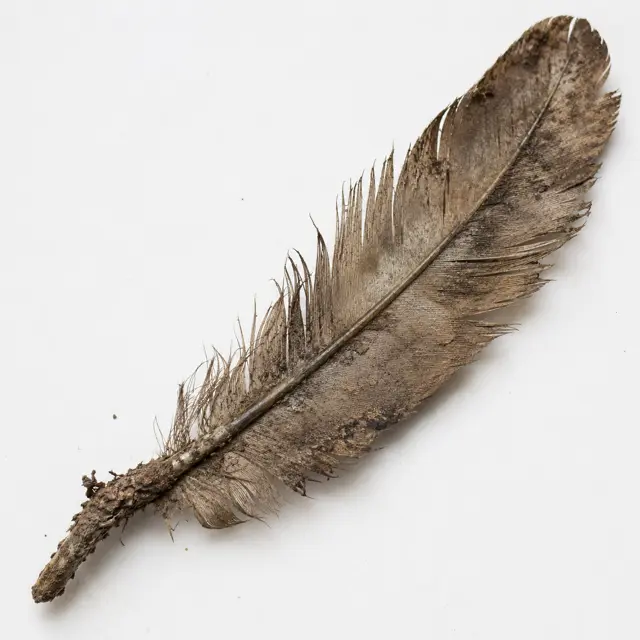
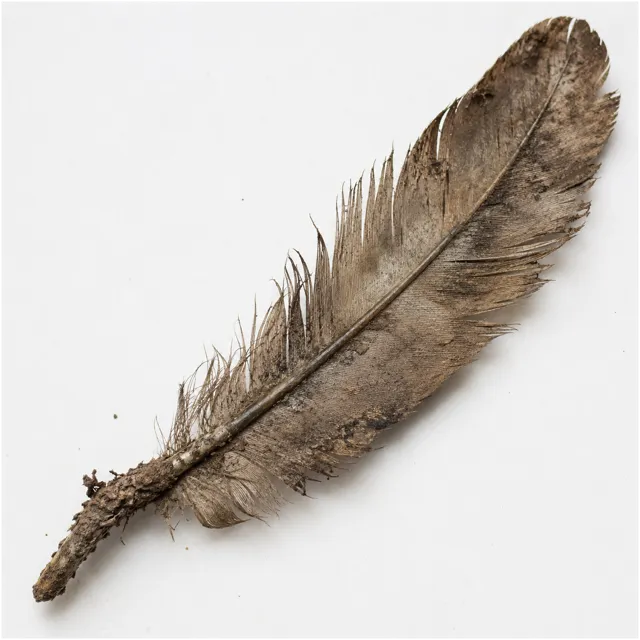
Echte Freisteller mit Alphakanal + Komposition statt Parkplatz-Ecken
Playtest-Feedback "lieblos, gleiche Größe in 4 Ecken, sichtbare Kanten":
- Alle Objekt-Assets als echte Freisteller neu erzeugt: Hintergrund
  per Flutfüllung entfernt, Alphakanal mit weicher Kante (MinFilter +
  Gauß) — keine sichtbaren Bildplatten mehr; Multiply-Workaround raus,
  stattdessen erdende Schlagschatten
- Komposition mit drei Größenordnungen und zwei Anschnitten: Wurzel
  groß aus der Ecke wachsend (rechts unten, beschnitten), Ast von der
  linken Kante angeschnitten, Orakelknochen leicht über den Rand,
  Feder klein oben links
- Einzelstäbe neu geschnitten (mit Alpha), dunkle Stäbe kombinieren
  Abdunklung + Schatten

Claude-Session: https://claude.ai/code/session_01DXF9SGuTTM2WSeoM6srJWZ

diff --git a/public/natur.css b/public/natur.css
@@ -14,28 +14,34 @@ html[data-theme="natur"], html[data-theme="natur"] body{
    verschmilzt ihren Weißgrund mit der Wand. Nur Desktop — mobil bleibt
    die Wand leer und die Objekte leben im Inhalt (Steine, Stäbe). */
 @media (min-width: 1320px){
+  /* Komposition statt Parkplatz: drei Größenordnungen, zwei Anschnitte.
+     Die Freisteller haben echten Alphakanal — Schatten erden sie. */
   html[data-theme="natur"]::before{
-    content:''; position:fixed; left:2vw; top:6vh; width:170px; height:170px;
+    content:''; position:fixed; left:2.5vw; top:7vh; width:130px; height:130px;
     background:url('/assets/material/objekt-feder.webp') center/contain no-repeat;
-    mix-blend-mode:multiply; opacity:.95; transform:rotate(-24deg);
+    transform:rotate(-28deg);
+    filter:drop-shadow(4px 10px 14px rgba(43,36,26,.22));
     pointer-events:none; z-index:0;
   }
   html[data-theme="natur"]::after{
-    content:''; position:fixed; left:1.5vw; bottom:5vh; width:130px; height:380px;
+    content:''; position:fixed; left:-52px; top:34vh; width:160px; height:460px;
     background:url('/assets/material/objekt-ast.webp') center/contain no-repeat;
-    mix-blend-mode:multiply; opacity:.9; transform:rotate(6deg);
+    transform:rotate(16deg);
+    filter:drop-shadow(6px 12px 16px rgba(43,36,26,.22));
     pointer-events:none; z-index:0;
   }
   html[data-theme="natur"] body::before{
-    content:''; position:fixed; right:1.5vw; bottom:3vh; width:250px; height:300px;
+    content:''; position:fixed; right:-80px; bottom:-56px; width:480px; height:500px;
     background:url('/assets/material/objekt-wurzel.webp') center/contain no-repeat;
-    mix-blend-mode:multiply; opacity:.95; transform:rotate(-4deg);
+    transform:rotate(-9deg);
+    filter:drop-shadow(-8px 14px 22px rgba(43,36,26,.26));
     pointer-events:none; z-index:0;
   }
   html[data-theme="natur"] body::after{
-    content:''; position:fixed; right:3vw; top:8vh; width:200px; height:270px;
+    content:''; position:fixed; right:-26px; top:7vh; width:220px; height:300px;
     background:url('/assets/material/orakelknochen.webp') center/contain no-repeat;
-    mix-blend-mode:multiply; opacity:.85; transform:rotate(7deg);
+    transform:rotate(10deg);
+    filter:drop-shadow(-5px 10px 16px rgba(43,36,26,.22));
     pointer-events:none; z-index:0;
   }
 }
@@ -170,14 +176,16 @@ html[data-theme="natur"] .stick{
   border-radius:0 !important;
   background-position:center !important; background-repeat:no-repeat !important;
   background-size:contain !important;
-  mix-blend-mode:multiply;
+  filter:drop-shadow(2px 4px 5px rgba(43,36,26,.3));
 }
 html[data-theme="natur"] .stick[data-i="1"]{background-image:url('/assets/material/stab-1.webp') !important}
 html[data-theme="natur"] .stick[data-i="2"]{background-image:url('/assets/material/stab-2.webp') !important}
 html[data-theme="natur"] .stick[data-i="3"]{background-image:url('/assets/material/stab-3.webp') !important}
 html[data-theme="natur"] .stick[data-i="4"]{background-image:url('/assets/material/stab-4.webp') !important}
 /* dunkle Seite oben = Stab „gedreht" */
-html[data-theme="natur"] .stick:not(.light){filter:brightness(.5) saturate(.75) contrast(1.05)}
+html[data-theme="natur"] .stick:not(.light){
+  filter:brightness(.5) saturate(.75) contrast(1.05) drop-shadow(2px 4px 5px rgba(43,36,26,.3));
+}
 
 /* --- Knöpfe: Rost als warmer Akzent -------------------------------- */
 html[data-theme="natur"] .btn-primary{
@@ -267,7 +275,7 @@ html[data-theme="natur"] .site-footer::before{
   content:''; position:absolute; top:6px; left:50%; transform:translateX(-50%) rotate(-6deg);
   width:52px; height:52px;
   background:url('/assets/material/astragal.webp') center/contain no-repeat;
-  mix-blend-mode:multiply; opacity:.7;
+  filter:drop-shadow(2px 5px 8px rgba(43,36,26,.25));
 }
 html[data-theme="natur"] ::selection{background:#8a5a28; color:#f4ead8}
 
@@ -278,21 +286,22 @@ html[data-theme="natur"] .site-header .brand strong::after{
   content:''; display:inline-block; width:52px; height:52px; margin-left:14px;
   vertical-align:-14px;
   background:url('/assets/material/objekt-feder.webp') center/contain no-repeat;
-  mix-blend-mode:multiply; transform:rotate(-18deg);
+  transform:rotate(-18deg);
+  filter:drop-shadow(2px 4px 6px rgba(43,36,26,.25));
 }
 /* Die Rinde eröffnet die Monatsgeschichte. */
 html[data-theme="natur"] .chapters-heading::before{
   content:''; display:inline-block; width:34px; height:34px; margin-right:12px;
   vertical-align:-11px;
   background:url('/assets/material/objekt-rinde.webp') center/contain no-repeat;
-  mix-blend-mode:multiply;
+  filter:drop-shadow(2px 4px 6px rgba(43,36,26,.25));
 }
 /* Das Moos wächst am Feld-Album. */
 html[data-theme="natur"] .album summary::before{
   content:''; display:inline-block; width:30px; height:30px; margin-right:10px;
   vertical-align:-9px;
   background:url('/assets/material/objekt-moos.webp') center/contain no-repeat;
-  mix-blend-mode:multiply;
+  filter:drop-shadow(2px 4px 6px rgba(43,36,26,.25));
 }
 /* Das Fell liegt unter dem Ereignis-Banner (dunkle Deckschicht bleibt). */
 html[data-theme="natur"] .event-banner{
@@ -304,5 +313,6 @@ html[data-theme="natur"] .event-banner{
 html[data-theme="natur"] .sticks-row::after{
   content:''; display:inline-block; width:44px; height:44px; margin-left:16px;
   background:url('/assets/material/astragal.webp') center/contain no-repeat;
-  mix-blend-mode:multiply; transform:rotate(-10deg); align-self:flex-end;
+  transform:rotate(-10deg); align-self:flex-end;
+  filter:drop-shadow(2px 5px 7px rgba(43,36,26,.28));
 }
